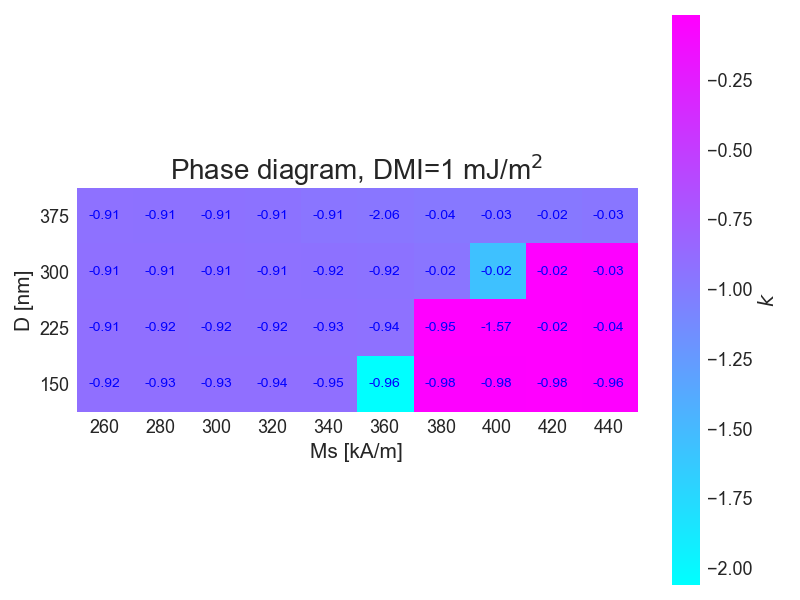
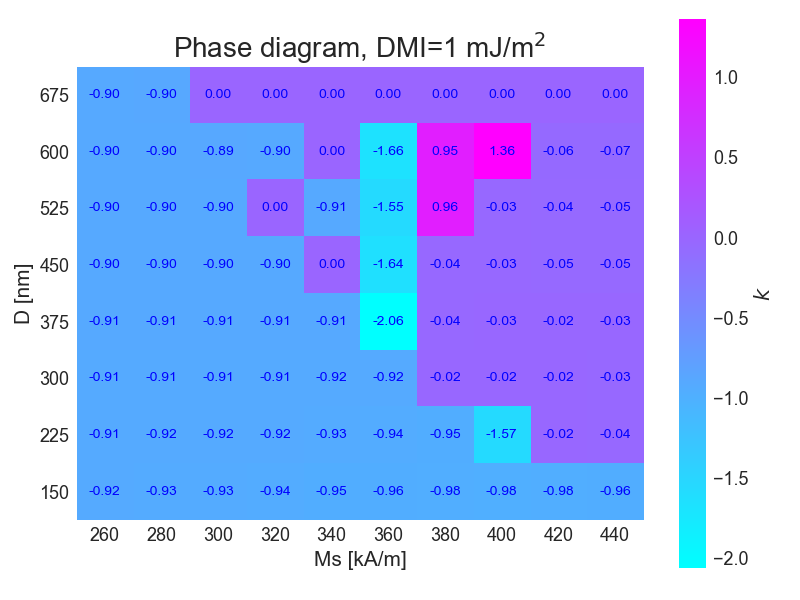
Added phase diagrams v3

diff --git a/scripts/phase_map.py b/scripts/phase_map.py
@@ -15,7 +15,7 @@ def get_topological_charge(field_path_file):
   return topological_charge
 
 def create_phase_diagram():
-  Ds = range(150, 450, 75)
+  Ds = range(150, 750, 75)
   Mss = range(260, 460, 20)
 
   system_name = 'saf_skyrmion'
@@ -25,13 +25,13 @@ def create_phase_diagram():
     value = []
     for Ms in Mss:
 
-      if D == 750 and Ms == 440:
-        value.append(0)  
-        continue
-
       dirname = f'saf_skyrmion-{D}nm-{Ms}kA_m'
       drive_path = f"{RESULTS_PATH}/{dirname}/{system_name}/drive-0/"
-      omf_file_path = find_omf_file(drive_path)
+      try:
+        omf_file_path = find_omf_file(drive_path)
+      except:
+        value.append(0)
+        continue
       
       k = get_topological_charge(f"{drive_path}/{omf_file_path}")
       
@@ -39,10 +39,11 @@ def create_phase_diagram():
       value.append(k)
     data.append(value)
   
+  data = np.flip(data, axis=0)
   data_matrix = np.array(data)
   fig, ax = plt.subplots()
-  im = ax.imshow(data, cmap='cool')
-
+  im = ax.imshow(data, cmap='cool', interpolation='nearest')
+  
   ax.set_xticks(
     range(len(Mss)),
     labels=[f'{Ms}' for Ms in Mss]
@@ -54,9 +55,10 @@ def create_phase_diagram():
 
   for i in range(len(Ds)):
     for j in range(len(Mss)):
-      text = ax.text(j, i, f'{data_matrix[len(Ds)-1-i, j]:.2f}', ha='center', va='center', color='b')
+      label = f'{data_matrix[i, j]:.2f}'
+      text = ax.text(j, i, label, ha='center', va='center', color='b')
 
-  ax.set_title(r"Phase diagram, DMI=1 mJ/m$^2$")
+  ax.set_title(r"Phase diagram, DMI=0.5 mJ/m$^2$")
   ax.set_ylabel("D [nm]")
   ax.set_xlabel("Ms [kA/m]")
   

diff --git a/scripts/saf_skyrmions.py b/scripts/saf_skyrmions.py
@@ -5,8 +5,8 @@ import functools
 import matplotlib.pyplot as plt
 import json
 
-IMAGE_PATH = "../images/saf_skyrmion-0.8nm-z_0.8nm"
-RESULTS_PATH = "../results/saf_skyrmion-0.8nm"
+IMAGE_PATH = "../images/saf_skyrmion-0.8nm-z_0.8nm-d_1"
+RESULTS_PATH = "../results/saf_skyrmion-0.8nm-d_1"
 
 
 def get_mesh(D: float, w: float):
@@ -62,7 +62,7 @@ def main(D: float, Ms: float, w: float):
     A = 1e-11  # J/m
     sigma = -0.3e-3  # J/m^2
     K = 0.1e6  # J/m^3
-    dmi = 0.5e-3  # J/m^2
+    dmi = 1e-3  # J/m^2
     system = mm.System(name="saf_skyrmion")
     system.energy = (
         mm.Exchange(A=A)
@@ -81,7 +81,7 @@ def main(D: float, Ms: float, w: float):
     )
     fig, ax = plt.subplots(figsize=(20, 6))
     ax.set_xlim(-40, 40)
-    ax.set_ylim(0, 22)
+    ax.set_ylim(0, 18)
     system.m.sel("y").mpl(
         ax=ax,
         filename=f"{IMAGE_PATH}/mcut_init-{D / 1e-9:.0f}nm-{Ms / 1e3:.0f}k_Am.png",
@@ -120,9 +120,11 @@ if __name__ == "__main__":
     # Mss = [340e3, 360e3, 380e3, 400e3, 420e3, 440e3]
     # Ds = [150e-9, 225e-9]
     #Ds = range(150, 600, 75)
-    Ds = range(600, 825, 75)
+    Ds = range(675, 825, 75)
     Mss = range(260, 460, 20)
     for D in Ds:
         for Ms in Mss:
+            if D==675 and Ms in range(260,300,20):
+                continue
             main(D * 1e-9, Ms * 1e3, w=0.8)
             print(f"Finished running for {D:.2e} and {Ms:.2e}")

diff --git a/scripts/saf_skyrmions_results_08nm.py b/scripts/saf_skyrmions_results_08nm.py
@@ -4,7 +4,7 @@ RESULTS_PATH = "../results/saf_skyrmion-0.8nm-d_1"
 IMAGES_PATH = "../images/saf_skyrmion-0.8nm-z_0.8nm-d_1-results"
 
 def create_plots():
-  Ds = range(150, 525, 75)
+  Ds = range(150, 750, 75)
   Mss = range(260, 460, 20)
 
   system_name = 'saf_skyrmion'
